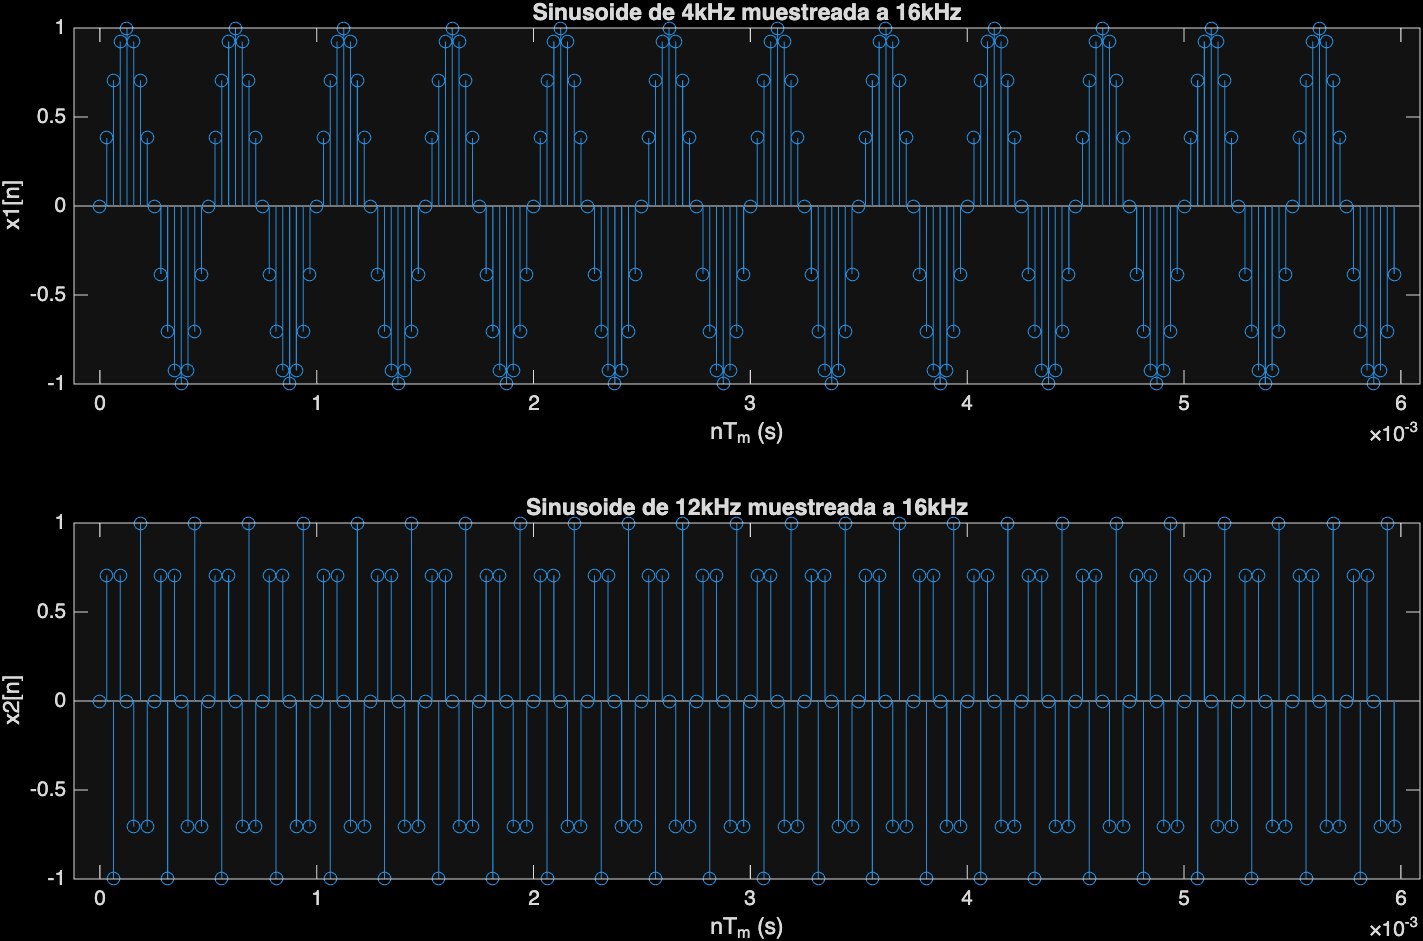
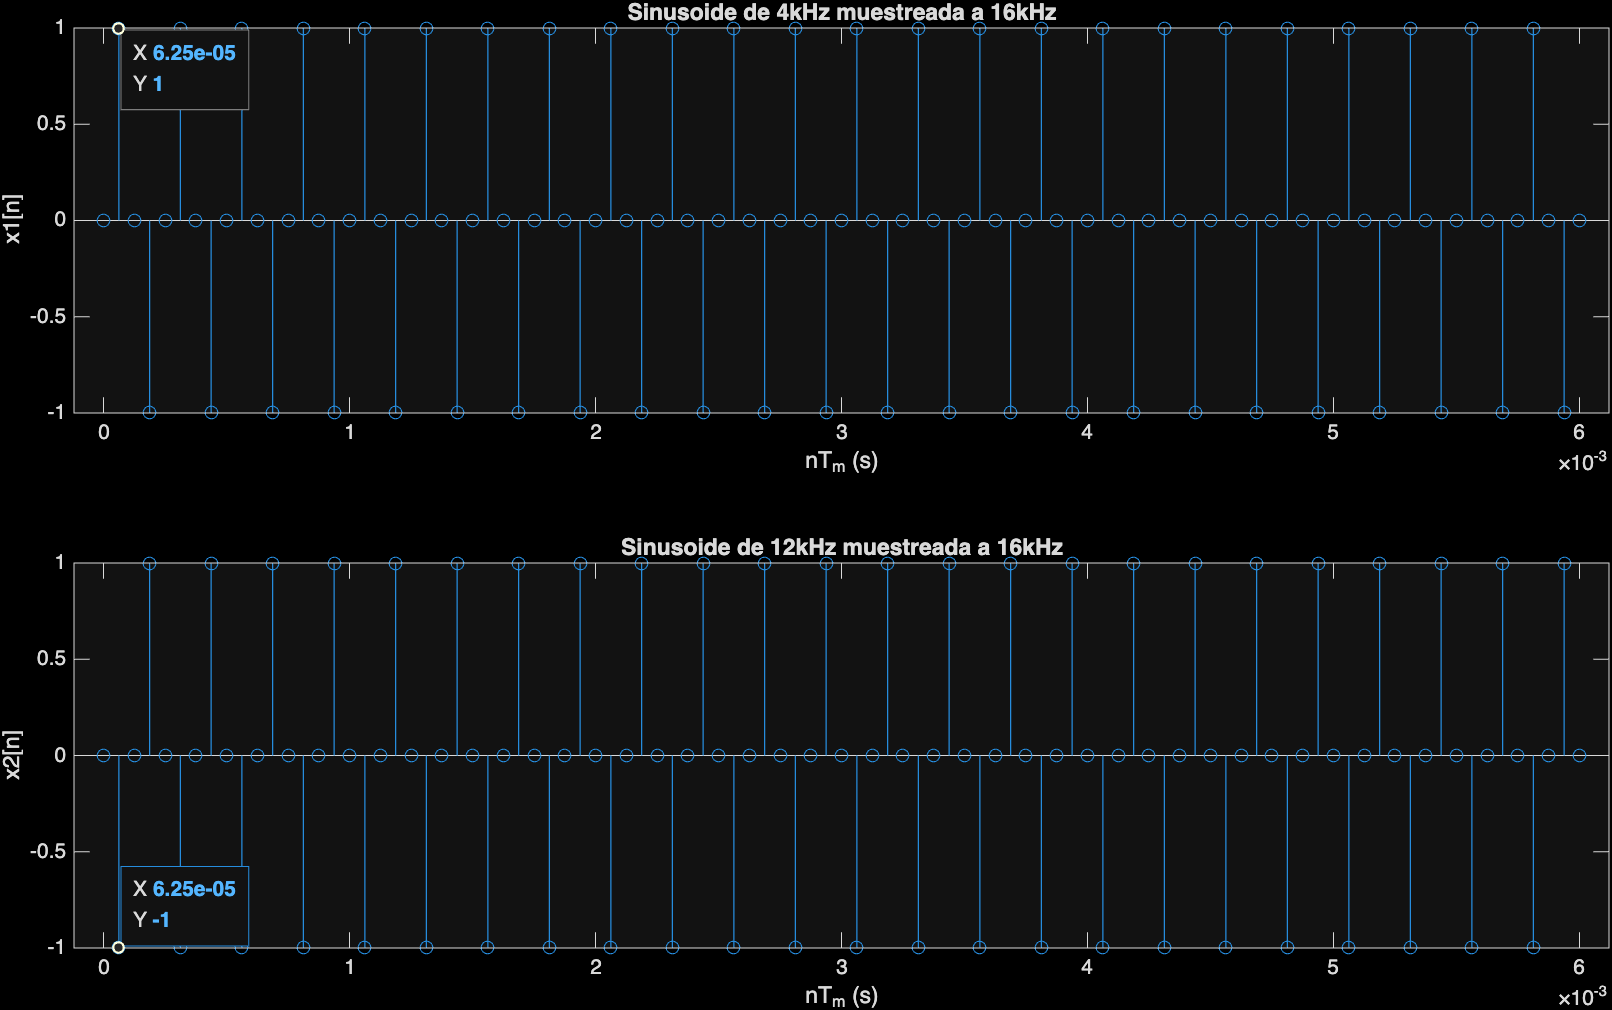
fix frequency values in lab 3 P2

Changed region(s): [[0.0, 0.5239, 1.0, 1.0], [0.0, 0.0, 1.0, 0.4931]]

diff --git a/lab3/PRÁCTICA 3.md b/lab3/PRÁCTICA 3.md
@@ -31,9 +31,9 @@ hacer para evitar que haya confusión entre las dos secuencias?
 
 ```matlab
 dur_s = 6e-3; % 6ms
-F = 2e3; % 4kHz
+F = 4e3; % 4kHz
 
-F_m = 32e3; % 16kHz
+F_m = 16e3; % 16kHz
 T_m = 1/F_m;
 t = 0:T_m:dur_s-T_m;
 x1 = sin(2*pi*F*t);
@@ -49,8 +49,8 @@ subplot(2, 1, 2); stem(t, x2); xlabel('nT_m (s)'); ylabel('x2[n]'); title('Sinus
 
 En la sinusoide de 12kHz muestreada a 16kHz ocurre aliasing debido a que no se cumple el criterio de Nyquist ($F_m>2F_a$), ya que en este caso $16\text{kHz}<2(12\text{kHz})$. Entonces diferentes frecuencias de la señal original pueden general las mismas muestras, de forma que ya no podemos distinguir entre dos señales diferentes a partir de sus muestras. Para resolver esta confusión se debe muestrear la sinusoide de 12kHz por encima de la frecuencia de Nyquist, i.e. se debe cumplir $F_m>24\text{kHz}$.
 
-*Ejemplo*: consideramos $x_1[n]=cos(2π\frac{12}{16}n)=cos(\frac{3π}{2}n)$ y $x_2[n]=cos(2π\frac{4}{16}n)=cos(\frac{π}{2}n)$.
-De aquí vemos que $x_1[n]=cos(\frac{3π}{2}n)=cos(-\frac{π}{2}n)=x_2[n]$. Es decir, $x_1$ con frecuencia de 12kHz muestreada a 16kHz es indistinguible de $x_2$, una sinusoide con frecuencia de 4kHz. Esto es el llamado aliasing.
+En este caso tenemos que: $x_1[n] = sin(2π\frac{4}{16}t)=sin(\frac{π}{2}t)$ y $x_2[n] = sin(2π\frac{3}{4}t)=sin(\frac{3π}{2}t)$. Entonces es evidente que $x_1[n]=-x_2[n]$.
+Es decir occure aliasing, la sinusoide con frecuencia de $12\text{kHz}$ se puede confundir con una sinusoide de $4\text{kHz}$ de signo opuesto.
 
 **P3**. Sea una sinusoide continua de frecuencia fa1 = 1.5 kHz que representaremos en un intervalo de 4 ms. Como MATLAB representa señales discretas, aproximaremos la señal continua muestreando a una frecuencia mucho mayor que la requerida, por ejemplo, 80 kHz. La señal discreta se obtendrá muestreando la sinusoide a fs = 8 kHz. Después del procesado (no haremos nada) emplearemos un ZOH (pulsos rectangulares) para la conversión D/C. Para suavizar la señal pasaremos la señal por un filtro de orden 4 y frecuencia de corte fc = 3 kHz. Todo esto se especifica de la siguiente forma: cd_dc(4e-3,80e3,1.5e3,0,8e3,'rectpuls',4,3e3); Compruebe a la salida hemos recuperado aproximadamente la señal ¿qué diferencias observa respecto a la señal inicial? Disminuya la frecuencia de corte del filtro a 1.5 kHz. ¿Qué ha cambiado en la señal reconstruida?
 
@@ -85,7 +85,7 @@ Recordemos que el proceso de muestreo introduce réplicas en el espectro de la s
 ![](images/p4_suma_nula_fs8k.png)
 
 Observamos que durante el muestreo se pierde toda la información de la señal original (la escala vertical marca $\times10^{-14}$). Notemos que las dos sinusoides muestreadas a  $fs=8\text{kHz}$ se definen como: $$x_1[n] = sin(2π\frac{1.5}{8}), \space x_2[n]=sin(2π\frac{6.5}{8})$$. Pero podemos reescribir $x_2$ como: $$x_2[n]=sin(2πn-2π\frac{1.5}{8}n)=sin(-2π\frac{1.5}{8}n)=-x_1[n]$$. Esto implica que su suma es nula: $x_1[n]+x_2[n]=0$.
-Entonces, muestrear ambas señales a 8kHz resulta en la misma señal, pero una de ellas con signo opuesto. Esto se puede observar en el siguiente gráfico:
+Entonces, muestrear ambas señales a 8kHz resulta en la misma señal, pero una de ellas con signo opuesto (aliasing). Esto se puede observar en el siguiente gráfico:
 
 ![](images/p4_sinusoides_por_separado.png)
 
